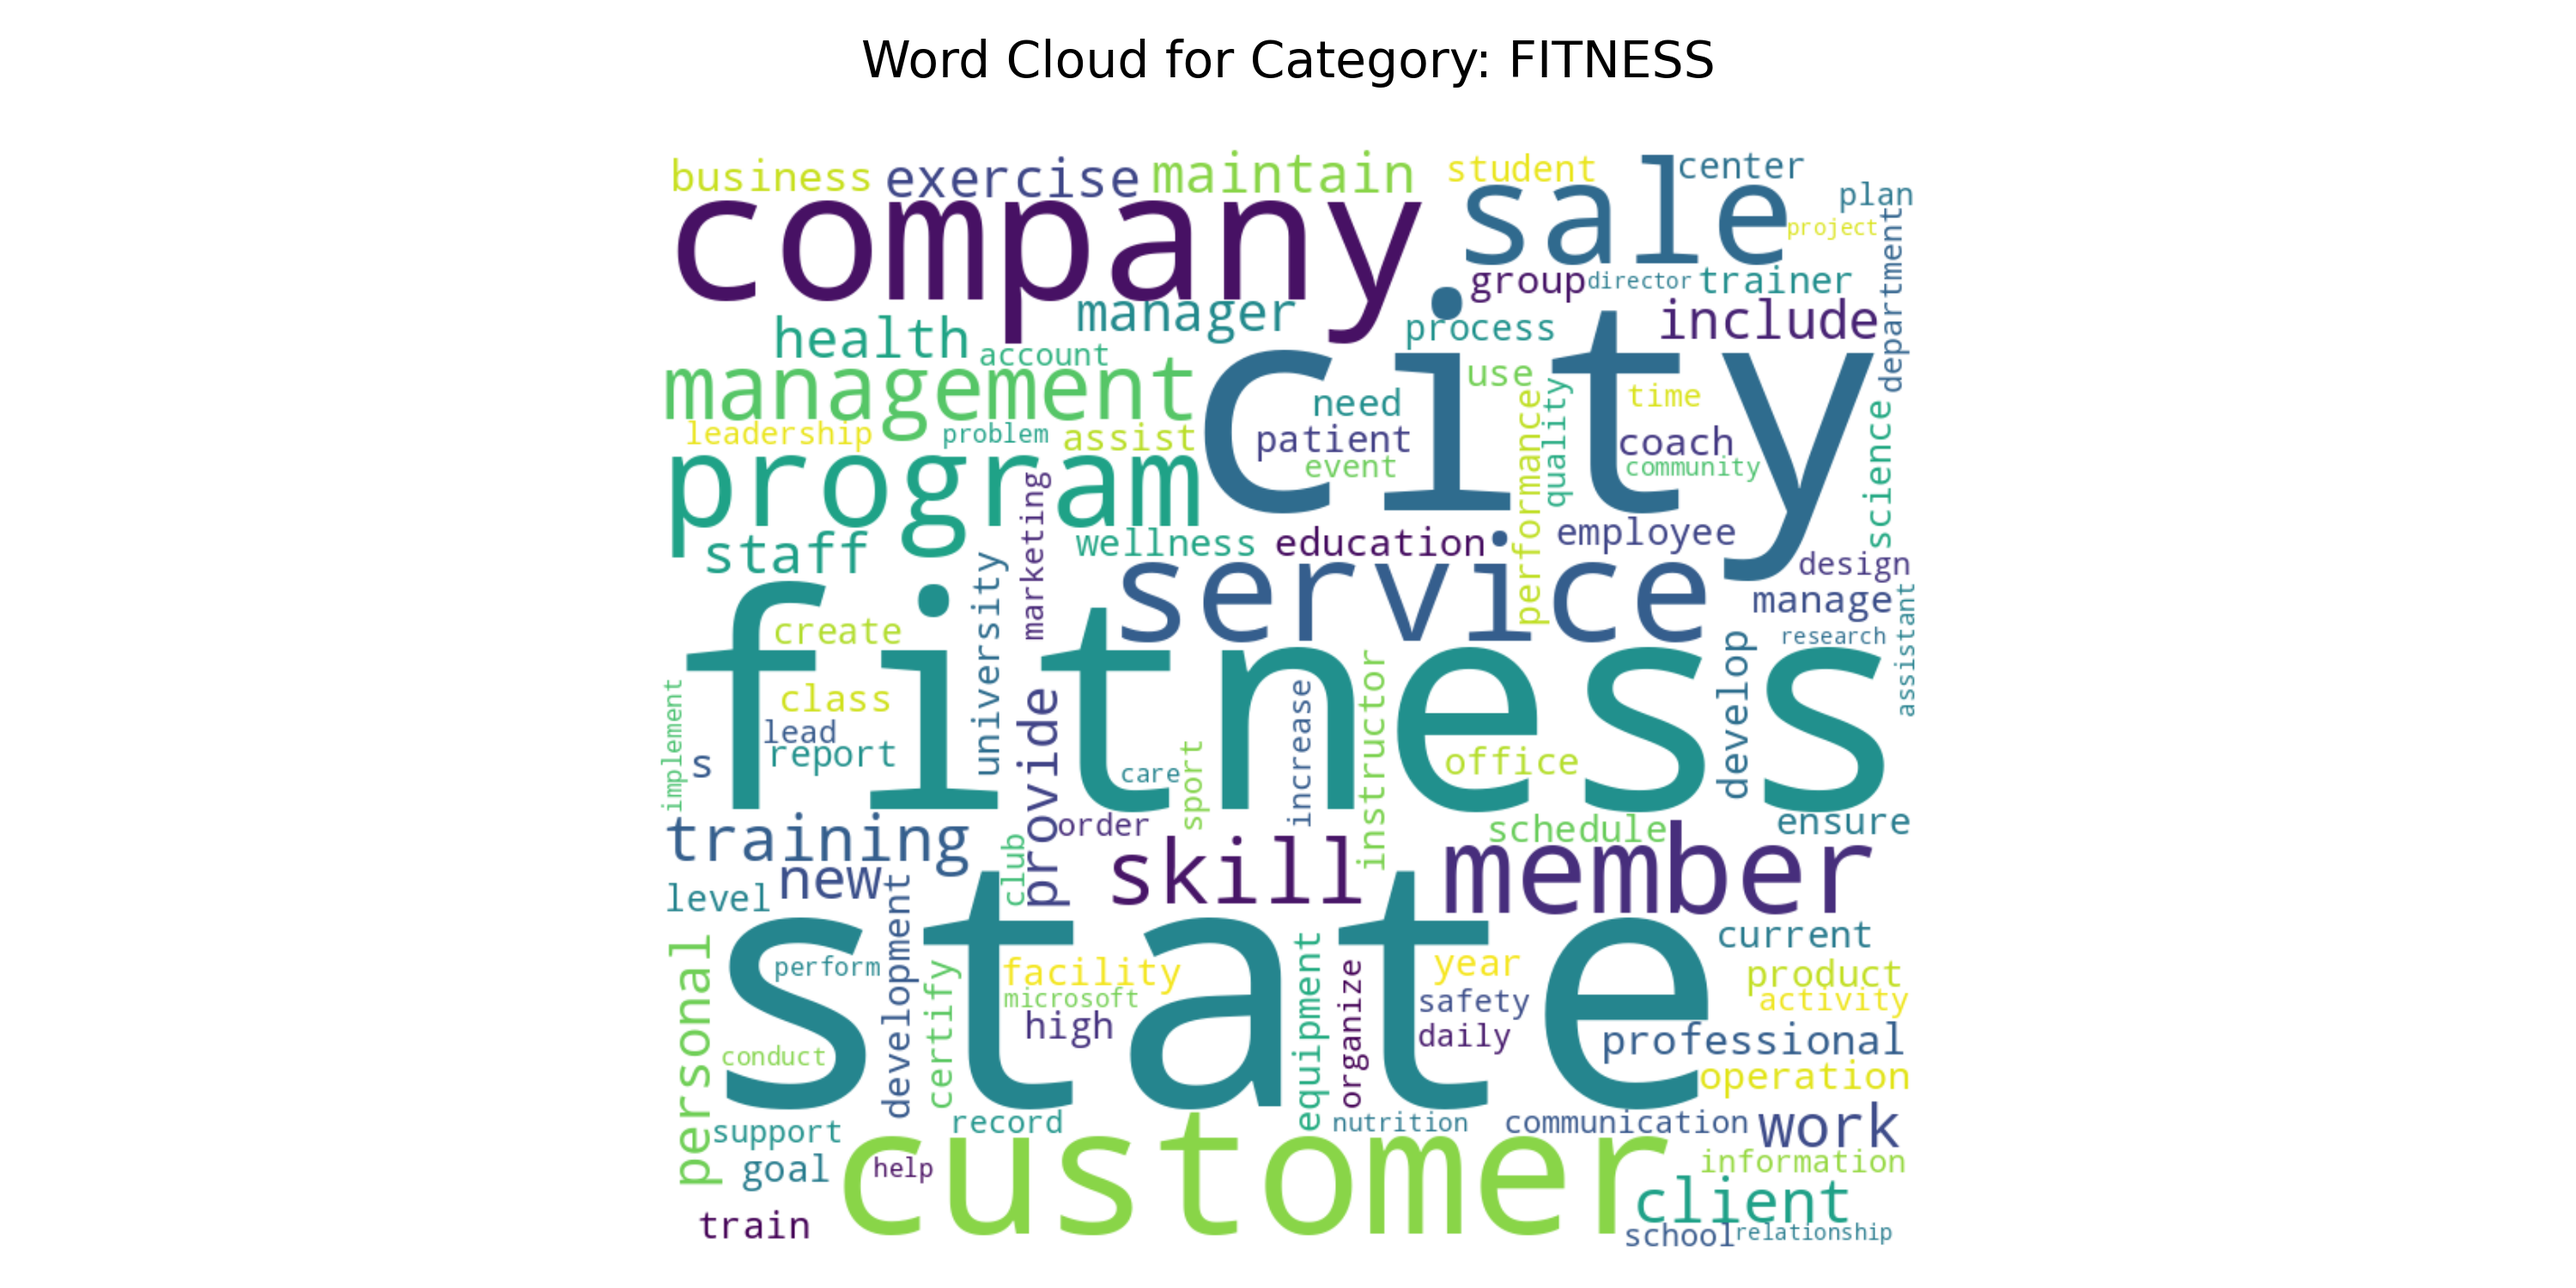
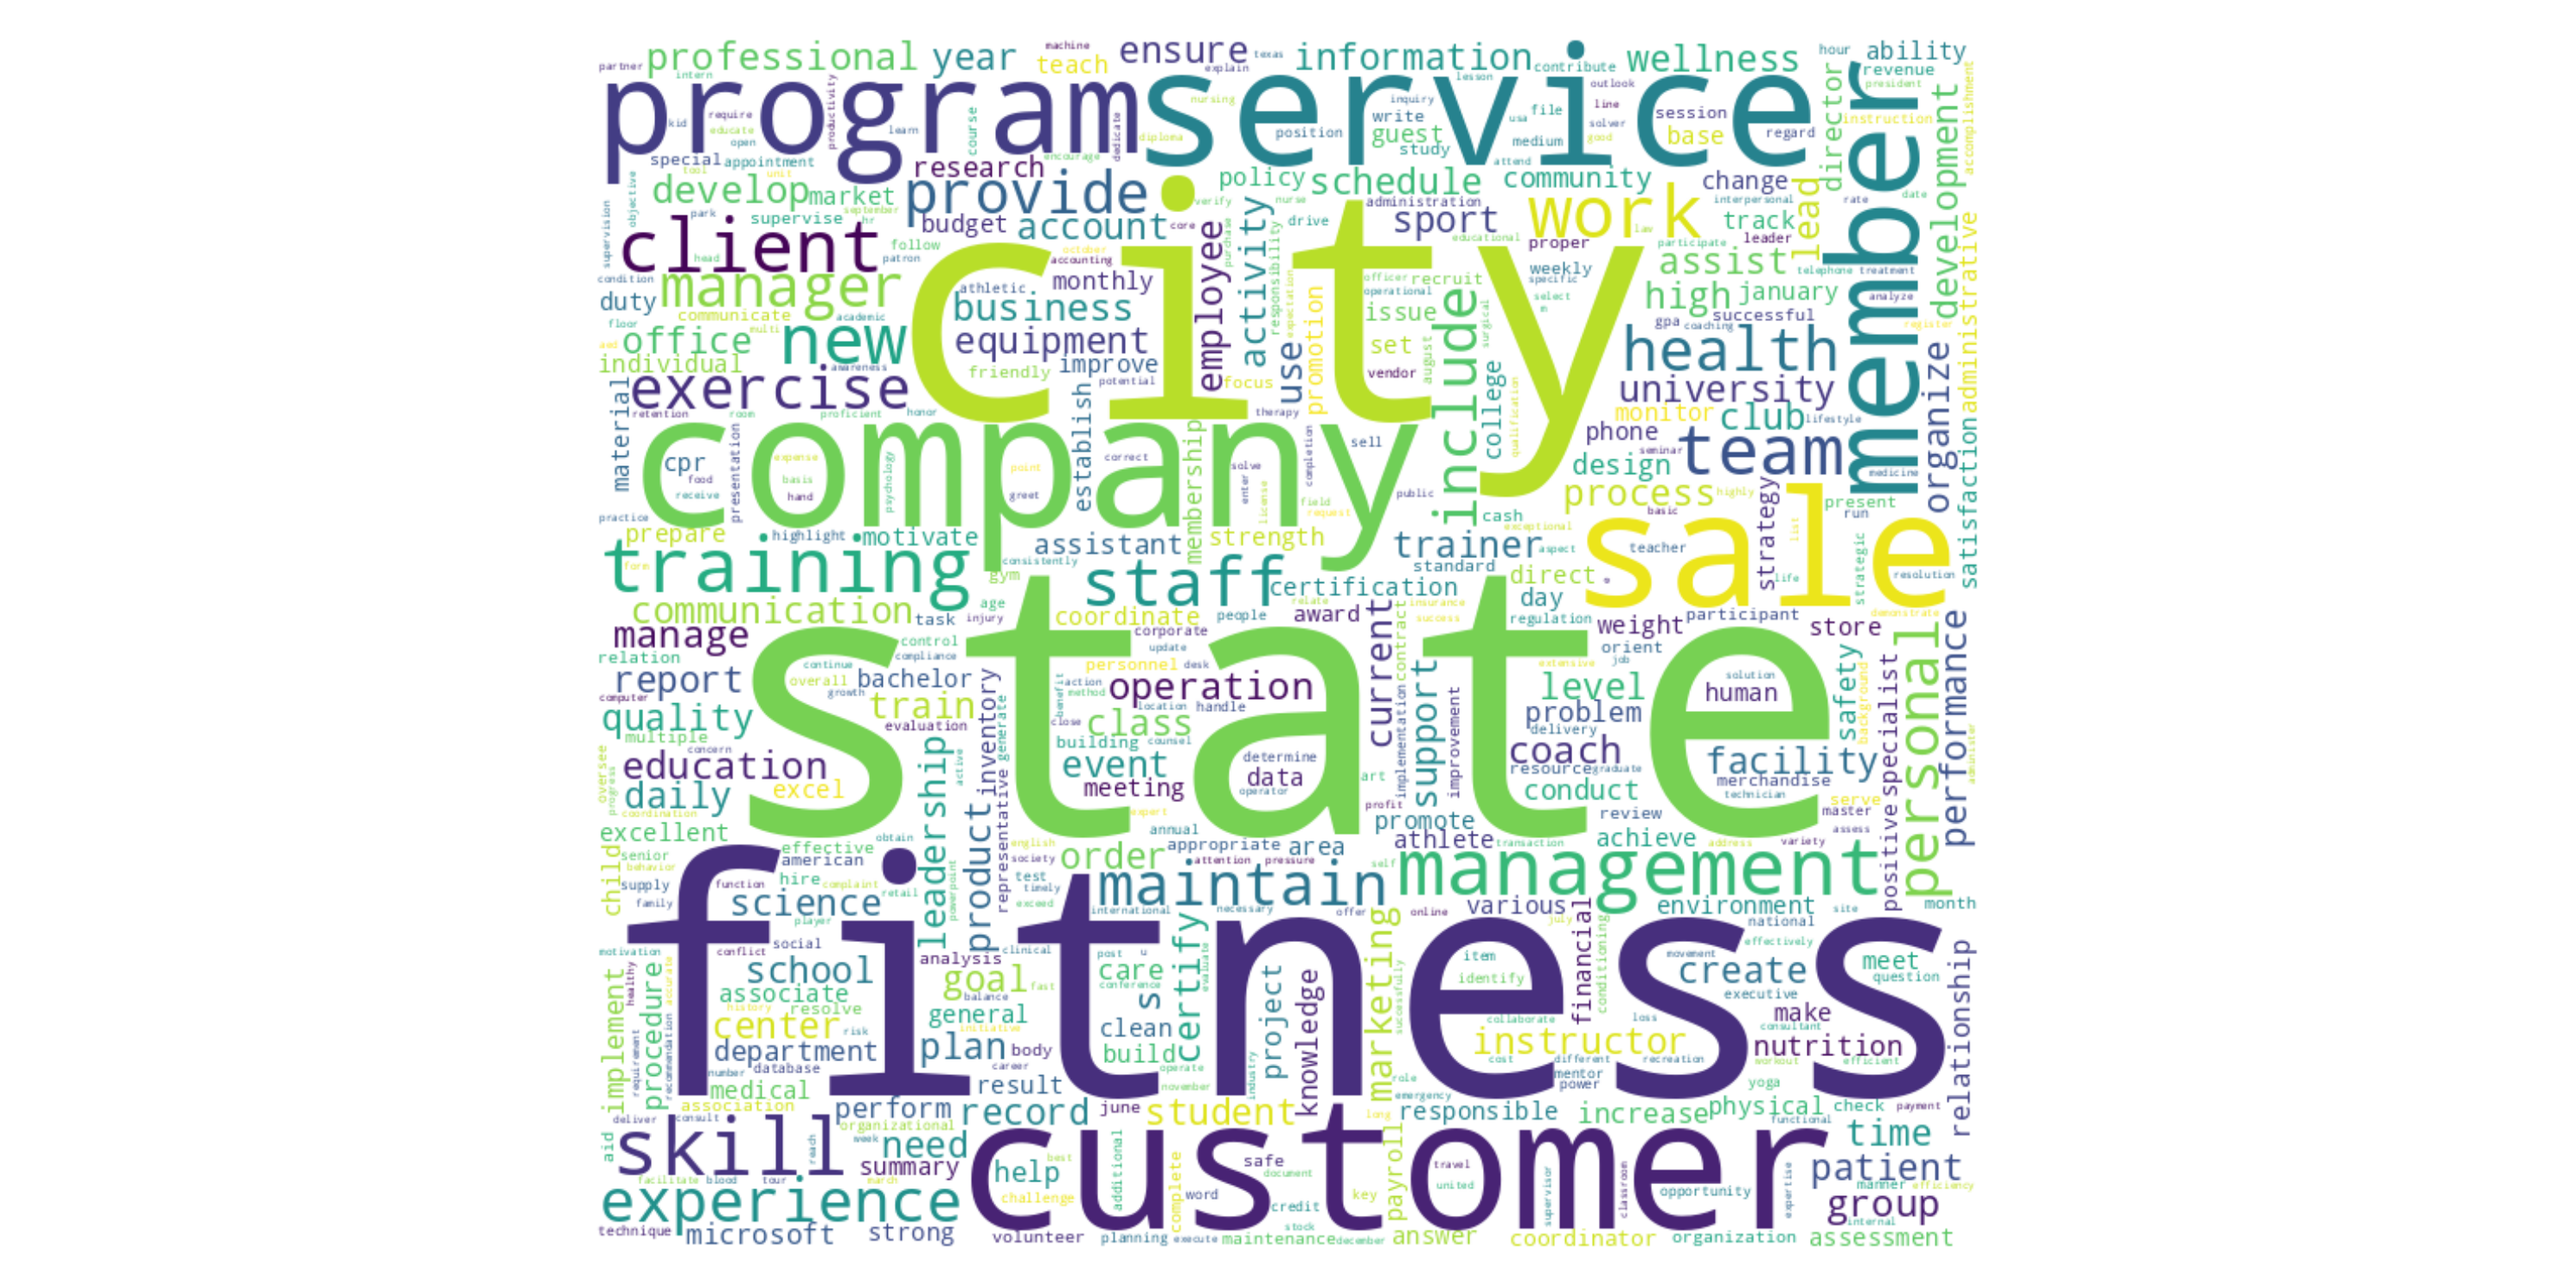
ok

Changed region(s): [[0.217, 0.0307, 0.775, 0.9813]]

diff --git a/Progetto_NLP/src/tools/plotting.py b/Progetto_NLP/src/tools/plotting.py
@@ -3,14 +3,15 @@ from wordcloud import WordCloud as wc
 from tools import utils as u
 
 
-def wordcloud(wc, df, MAX_WORDS, STOP_WORDS, title="Word Cloud of Top Words"):
+def wordcloud(wc, df, MAX_WORDS, STOP_WORDS, title=None):
 
     wc.generate_from_frequencies(dict(u.top_in_series(df, MAX_WORDS, STOP_WORDS)))
 
     fig = plt.figure(figsize=(10, 5))
     plt.imshow(wc, interpolation='bilinear')
     plt.axis('off') # Remove axes for a cleaner look
-    plt.title(title, fontsize=14, pad=20)
+    if title:
+        plt.title(title, fontsize=14, pad=20)
     plt.tight_layout()
     plt.close()
     return fig
